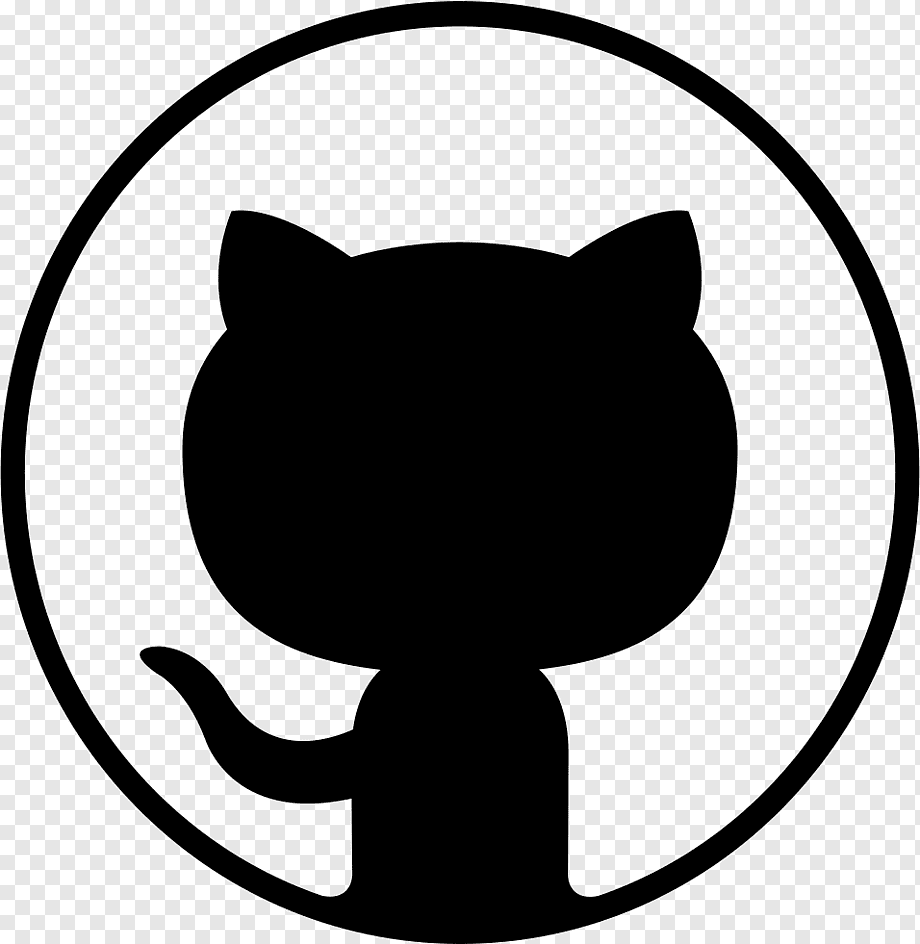
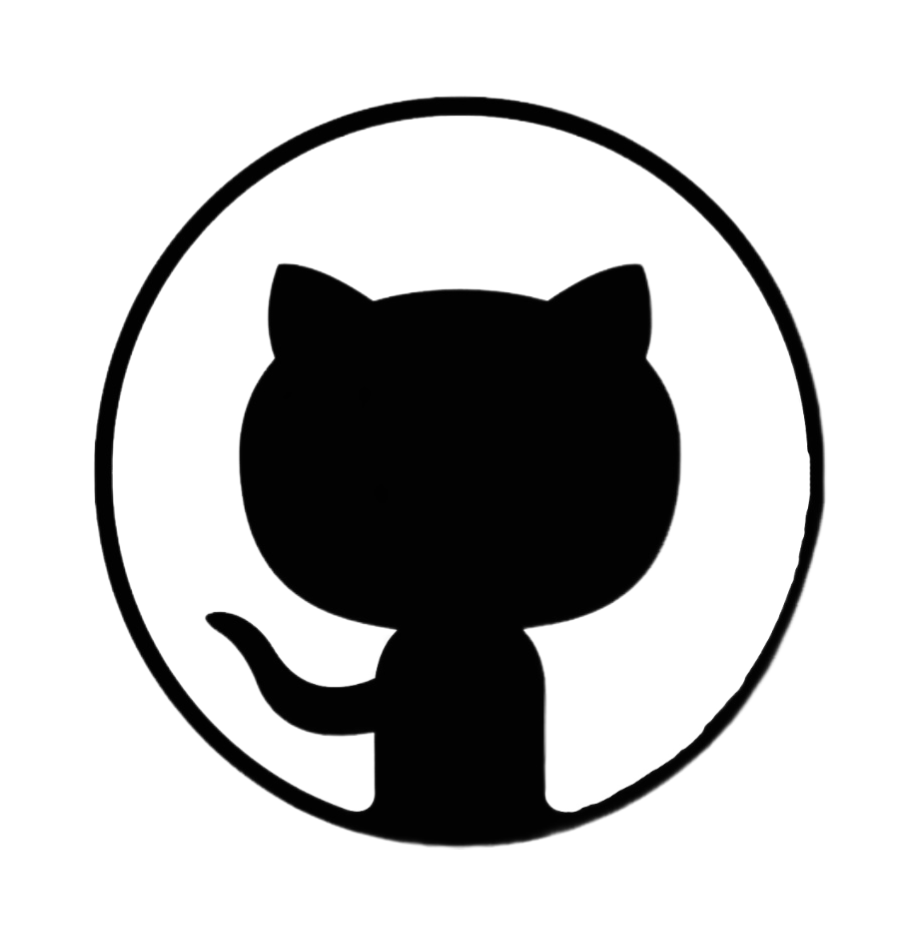
Some fixes images

diff --git a/templates/index.html b/templates/index.html
@@ -37,7 +37,7 @@
             <td><a href="/projects/{{ user_id }}/{{ projects[i].id }}" class="project_link">{{ projects[i].title }}</a></td>
             <td>
                 {% if projects[i].github_link %}
-                    <a href="{{ projects[i].github_link }}"><img src="../../../static/img/github.jpg" alt="github link" class="img_github"></a>
+                    <a href="{{ projects[i].github_link }}"><img src="../../../static/img/github.png" alt="github link" class="img_github"></a>
                 {% else %}
                     <span>--</span>
                 {% endif %}
